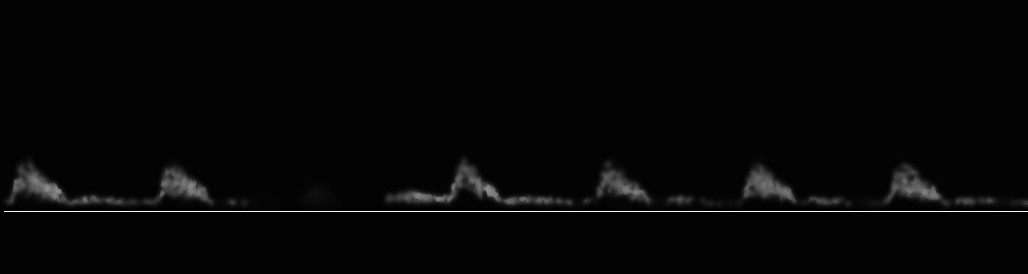
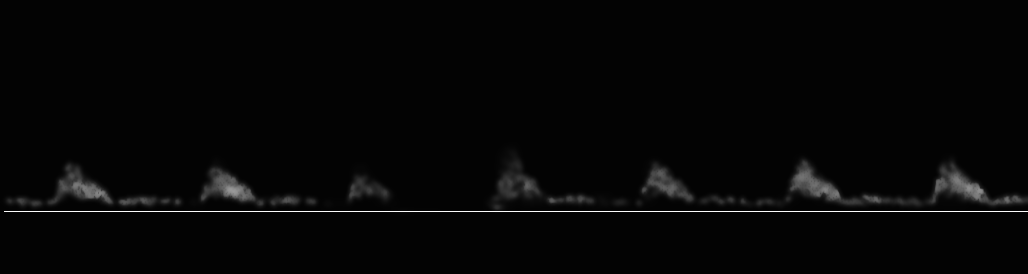
detects tiff and dicom accurately but cannot handle tiff

Changed region(s): [[0.0, 0.5839, 1.0, 0.7591]]

diff --git a/pwv_multiframe.py b/pwv_multiframe.py
@@ -3,30 +3,46 @@ import argparse
 import cv2
 import numpy as np
 import pydicom
+from PIL import Image
 
-
+# Detect and Load Image Stack (DICOM or TIFF)
+def load_image_stack(path):
+    # Attempt to accurately identify file type
+    # If DICOM header not found, try TIFF
+    try:
+        with Image.open(path) as img:
+            img.verify()  # Verify if it's a TIFF
+            print("Detected as TIFF based on PIL verification.")
+            return load_tiff_series(path)
+    except Exception:
+        return load_dicom_series(path)
+        pass
+    
+    raise ValueError("File could not be identified as DICOM or TIFF.")
 def load_dicom_series(path: str) -> np.ndarray:
     """
     Load a multi-frame DICOM file and return a 4D numpy array of shape
     (num_frames, height, width, 3) as BGR images.
     Handles grayscale, RGB, and RGBA pixel data robustly, with forced syntax if needed.
     """
-    import pydicom
     from pydicom.dataset import FileMetaDataset
     from pydicom.uid import ImplicitVRLittleEndian
-    # Attempt normal read, fallback to force=True
+
     try:
         ds = pydicom.dcmread(path)
     except pydicom.errors.InvalidDicomError:
         ds = pydicom.dcmread(path, force=True)
-    # Ensure TransferSyntaxUID for pixel decoding
+
     if not hasattr(ds, 'file_meta') or ds.file_meta is None:
         ds.file_meta = FileMetaDataset()
     if not hasattr(ds.file_meta, 'TransferSyntaxUID'):
         ds.file_meta.TransferSyntaxUID = ImplicitVRLittleEndian
+
+    if not hasattr(ds, 'PixelData'):
+        raise ValueError("DICOM file has no pixel data.")
+
     arr = ds.pixel_array
 
-    # Normalize array to have frame dimension
     if arr.ndim == 2:
         frames = arr[np.newaxis, ...]
     elif arr.ndim == 3:
@@ -58,6 +74,17 @@ def load_dicom_series(path: str) -> np.ndarray:
         out.append(bgr)
     return np.stack(out, axis=0)
 
+# Function to load TIFF series
+def load_tiff_series(filepath):
+    try:
+        img = Image.open(filepath)
+        frames = []
+        for i in range(img.n_frames):
+            img.seek(i)
+            frames.append(np.array(img))
+        return np.array(frames)
+    except Exception as e:
+        raise ValueError(f"Error loading TIFF file: {str(e)}")
 
 def measure_pwv_frame(image: np.ndarray) -> float:
     """

diff --git a/pwv_app.py b/pwv_app.py
@@ -3,6 +3,7 @@ import numpy as np
 import pandas as pd
 import streamlit as st
 import matplotlib.pyplot as plt
+from pwv_multiframe import load_image_stack
 
 from pwv_multiframe import load_dicom_series
 import pwv_visual_analysis
@@ -162,8 +163,8 @@ with tab_analysis:
         open(ppath, 'wb').write(prox_file.read())
         open(dpath, 'wb').write(dist_file.read())
 
-        prox_stack = load_dicom_series(ppath)
-        dist_stack = load_dicom_series(dpath)
+        prox_stack = load_image_stack(ppath)
+        dist_stack = load_image_stack(dpath)
         max_frames = min(len(prox_stack), len(dist_stack))
         frames_to_process = st.number_input(
             "Frames to process",
